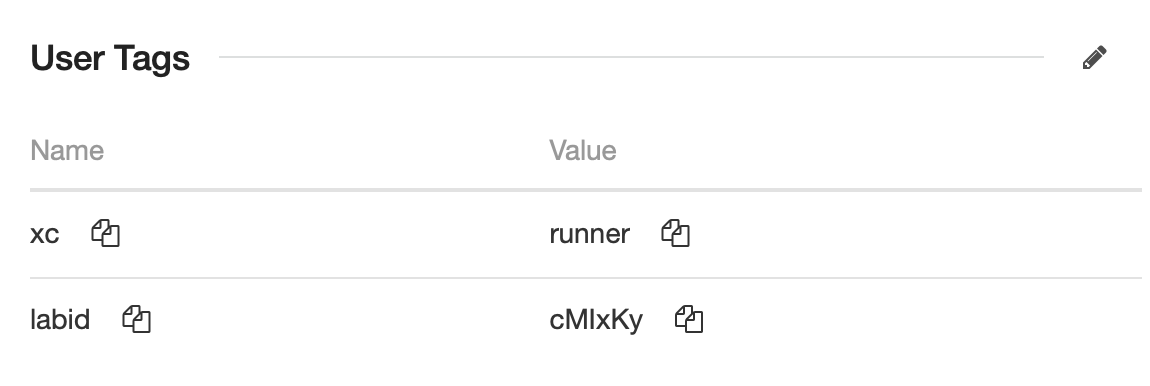
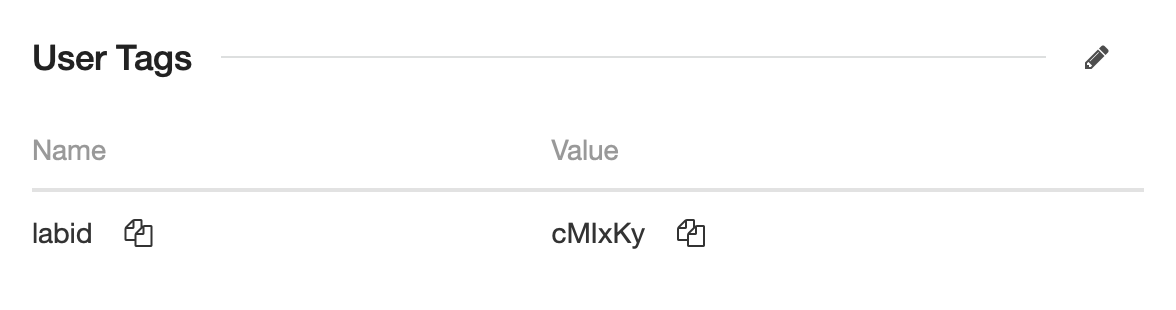
tag updatea

diff --git a/README.md b/README.md
@@ -16,7 +16,7 @@ These resources will remain in the tenant for the lifecycle of the UDF deploymen
 - [X] Continues sending SQSs to signify the deployment is active
 
 ### Requirements
-The UDF deployment's "runner" instance must be must be tagged:
+The UDF deployment's "runner" instance must be must be tagged with the "labid":
 
 <img src="./images/tags.png" alt="tags" width="512"/>
 
